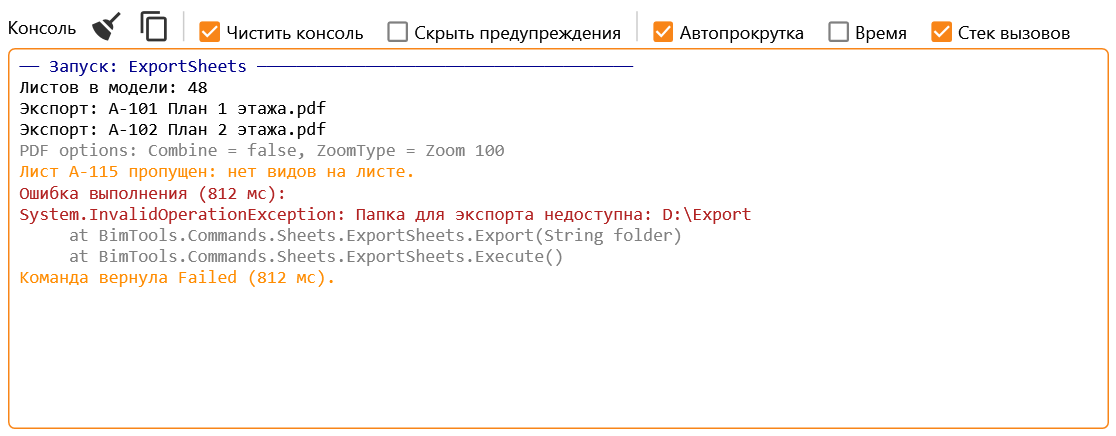
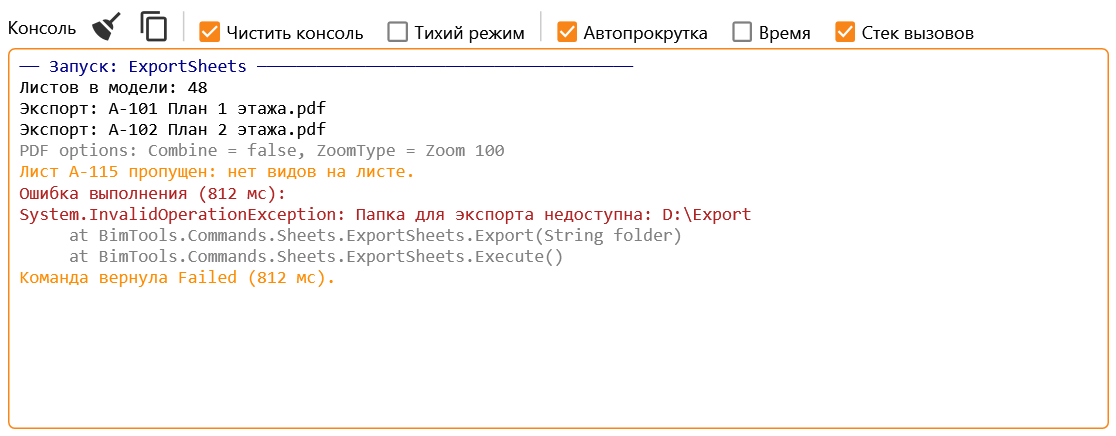
Run under debugger with Ctrl+F5

Changed region(s): [[0.3656, 0.0298, 0.9749, 0.1193]]

diff --git a/source/UI/ScriptEditor/ScriptEditorWindow.xaml b/source/UI/ScriptEditor/ScriptEditorWindow.xaml
@@ -18,6 +18,7 @@
     <Window.InputBindings>
         <KeyBinding Key="F5" Command="{Binding RunCommand}"/>
         <KeyBinding Key="Enter" Modifiers="Control" Command="{Binding RunCommand}"/>
+        <KeyBinding Key="F5" Modifiers="Control" Command="{Binding RunWithDebuggerCommand}"/>
         <KeyBinding Key="N" Modifiers="Control" Command="{Binding NewTabCommand}"/>
         <KeyBinding Key="O" Modifiers="Control" Command="{Binding OpenFileCommand}"/>
         <KeyBinding Key="S" Modifiers="Control" Command="{Binding SaveFileCommand}"/>
@@ -39,7 +40,7 @@
 
             <Button Width="25" Height="25" Margin="8 0 0 0" Padding="0" Command="{Binding RunWithDebuggerCommand}"
                     Style="{StaticResource MaterialDesignFlatButton}"
-                    ToolTip="Запустить под отладчиком: подключить Visual Studio и остановиться на первой строке скрипта">
+                    ToolTip="Запустить под отладчиком (Ctrl+F5): подключить открытую Visual Studio и остановиться на первой строке скрипта. Без открытой Visual Studio скрипт не запускается">
                 <materialDesign:PackIcon Kind="BugPlayOutline" Width="25" Height="25" Foreground="{StaticResource IconBrush}"/>
             </Button>
 

diff --git a/source/UI/DllRunner/AssemblyRunnerWindow.xaml b/source/UI/DllRunner/AssemblyRunnerWindow.xaml
@@ -129,6 +129,7 @@
 
     <Window.InputBindings>
         <KeyBinding Key="F5" Command="{Binding RunHotkeyCommand}"/>
+        <KeyBinding Key="F5" Modifiers="Control" Command="{Binding DebugHotkeyCommand}"/>
         <KeyBinding Key="O" Modifiers="Control" Command="{Binding AddHotkeyCommand}"/>
         <KeyBinding Key="R" Modifiers="Control" Command="{Binding ReloadHotkeyCommand}"/>
     </Window.InputBindings>
@@ -146,7 +147,7 @@
 
             <Button Width="25" Height="25" Margin="8 0 0 0" Padding="0" Command="{Binding RunWithDebuggerCommand}"
                     Style="{StaticResource MaterialDesignFlatButton}"
-                    ToolTip="Выполнить под отладчиком: подключить Visual Studio, точки останова в проекте сработают">
+                    ToolTip="Выполнить под отладчиком (Ctrl+F5): подключить открытую Visual Studio с решением надстройки, точки останова в проекте сработают. Без открытой Visual Studio команда не запускается">
                 <materialDesign:PackIcon Kind="BugPlayOutline" Width="25" Height="25" Foreground="{StaticResource IconBrush}"/>
             </Button>
 

diff --git a/source/UI/Console/ConsoleView.xaml b/source/UI/Console/ConsoleView.xaml
@@ -27,8 +27,8 @@
             <!-- What a run from DevKit does with the console: one setting for Script Editor and Add-in Explorer. -->
             <CheckBox Content="Чистить консоль" VerticalAlignment="Bottom" Padding="2 0" IsChecked="{Binding IsClearOnRun}"
                       ToolTip="Очищать консоль перед каждым запуском из Script Editor и Add-in Explorer"/>
-            <CheckBox Content="Скрыть предупреждения" VerticalAlignment="Bottom" Margin="12 0 0 0" Padding="2 0" IsChecked="{Binding IsHideWarnings}"
-                      ToolTip="Предупреждения Revit при запуске только пишутся в консоль, без окна Revit. Ошибки Revit показывает как обычно"/>
+            <CheckBox Content="Тихий режим" VerticalAlignment="Bottom" Margin="12 0 0 0" Padding="2 0" IsChecked="{Binding IsHideWarnings}"
+                      ToolTip="Тихий режим: предупреждения Revit при запуске из DevKit пишутся только в консоль, без окна Revit. Ошибки Revit показывает как обычно"/>
 
             <Border Style="{DynamicResource ToolbarSeparator}"/>
 

diff --git a/source/Core/FailureLog.cs b/source/Core/FailureLog.cs
@@ -9,7 +9,7 @@ using System.Text;
 namespace RevitDevKit.Core
 {
     // While a script or command runs from DevKit, the warnings and errors Revit raises on committing a transaction
-    // go to the console, with the elements they name. Revit still shows them as usual, unless "hide warnings" is
+    // go to the console, with the elements they name. Revit still shows them as usual, unless quiet mode is
     // on: warnings are then deleted once written, and no warning dialog appears. Errors are left to Revit.
     public static class FailureLog
     {
@@ -85,7 +85,7 @@ namespace RevitDevKit.Core
                 block.Append("  ").AppendLine(line.Trim());
 
             if (!warning) block.AppendLine("  Если ошибку не решить, Revit отменит транзакцию.");
-            else if (hidden) block.AppendLine("  Скрыто: окно Revit не показано.");
+            else if (hidden) block.AppendLine("  Тихий режим: окно Revit не показано.");
 
             if (count == 1)
             {

diff --git a/source/UI/DllRunner/AssemblyRunnerVM.cs b/source/UI/DllRunner/AssemblyRunnerVM.cs
@@ -82,6 +82,10 @@ namespace RevitDevKit.UI.DllRunner
             : SelectedTabIndex == AssembliesTab ? assemblies
             : commands;
 
+        // Ctrl+F5: only commands run under a debugger.
+        [RelayCommand]
+        private void DebugHotkey() => Execute(ForTab(RunWithDebuggerCommand, null, null, null, null));
+
         [RelayCommand]
         private void RunHotkey() => Execute(ForTab(RunCommand, Apps.ApplyCommand, Startup.RefreshCommand, Dependencies.RefreshCommand, LoadedAssemblies.RefreshCommand));
 

diff --git a/README.md b/README.md
@@ -33,7 +33,7 @@ An assembly that Revit does not load can be referenced with `#r`:
 
 The **Примеры** (Samples) menu has a few ready-made scripts. The **Автотранзакция** (auto transaction) checkbox wraps the run in a transaction, for scripts that change the model without opening one themselves. If a script does not compile, the errors go to the console and the caret moves to the first of them.
 
-Warnings and errors Revit raises when a transaction of the script is committed go to the console, in orange and red, with the transaction's name and the Ids of the elements. The same failure raised several times is one block, its elements numbered by occurrence. Revit still shows them as usual; with **Скрыть предупреждения** (hide warnings) ticked in the console's header, warnings are only written to the console and no warning dialog appears, while errors are still shown by Revit. The same works for DLL commands and for Repeat Last.
+Warnings and errors Revit raises when a transaction of the script is committed go to the console, in orange and red, with the transaction's name and the Ids of the elements. The same failure raised several times is one block, its elements numbered by occurrence. Revit still shows them as usual; with **Тихий режим** (quiet mode) ticked in the console's header, warnings are only written to the console and no warning dialog appears, while errors are still shown by Revit. The same works for DLL commands and for Repeat Last.
 
 Scripts are saved to `%AppData%\RevitDevKit\Scripts` unless you pick another folder. A right click on a tab closes it, saves it under another name (**Сохранить как…**, also a toolbar button and Ctrl+Shift+S), and for a tab saved to a file shows the file in Explorer. Repeat Last on the ribbon repeats a script as it was compiled: edits take effect after F5 in the editor.
 
@@ -48,6 +48,7 @@ Indentation is coloured by level, as the Indent Rainbow extension for Visual Stu
 | Keys | |
 |---|---|
 | F5, Ctrl+Enter | run |
+| Ctrl+F5 | run under the debugger |
 | Ctrl+N, Ctrl+O, Ctrl+S, Ctrl+Shift+S, Ctrl+W | new tab, open, save, save as, close |
 | Ctrl+Space | suggestions; the list also opens by itself after a dot and on the first letter of a name |
 | Ctrl+Shift+Space | method overloads with parameter descriptions; the window also opens by itself after `(` and `,` |
@@ -87,7 +88,7 @@ In the output of `Compare`, `-нет-` (none) means the element has no such para
 
 <img src="assets/dll-runner-commands.png" width="580" alt="Add-in Explorer, the Commands tab" />
 
-Add a built DLL, and its `IExternalCommand` classes appear in the list, grouped by namespace. A double click or F5 runs a command. The DLL file is not locked, so the project can be rebuilt without closing Revit. The command is taken from the DLL on disk every time, so after a build just run it again. The list needs refreshing only when new commands appear: Ctrl+R, or a right click on the DLL, which also removes it from the list. The bug button runs the command under a debugger: the Visual Studio with the add-in's solution open is attached, and breakpoints set in the project are hit.
+Add a built DLL, and its `IExternalCommand` classes appear in the list, grouped by namespace. A double click or F5 runs a command. The DLL file is not locked, so the project can be rebuilt without closing Revit. The command is taken from the DLL on disk every time, so after a build just run it again. The list needs refreshing only when new commands appear: Ctrl+R, or a right click on the DLL, which also removes it from the list. The bug button or Ctrl+F5 runs the command under a debugger: the Visual Studio with the add-in's solution open is attached, and breakpoints set in the project are hit.
 
 The window closes when a command runs. To run the same command again after changes, there is no need to open Add-in Explorer: build the project and press Repeat Last on the ribbon, and the command runs from the fresh DLL. Repeat Last can be given a keyboard shortcut in Revit. **Repeat Last: Debug** next to it repeats the command under the open Visual Studio, as the bug button does, so breakpoints set in the project are hit; it has its own shortcut. A script is debugged in Script Editor instead.
 
@@ -134,7 +135,7 @@ The copy loaded in this session is marked. A right click on a DLL or an add-in s
 
 ![Console](assets/console.png)
 
-Everything that scripts and DLL commands write goes here: `Console.WriteLine`, `Debug.WriteLine`, `Trace` and exceptions with their call stacks. The console opens as a separate Revit pane and is also shown at the bottom of the script editor. The Console button on the ribbon shows the pane, or hides it when it is open. The output can be cleared (Ctrl+L) and copied. Two checkboxes in its header set how runs from Script Editor and Add-in Explorer alike treat it: **Чистить консоль** (clear console) clears it before each run, and **Скрыть предупреждения** (hide warnings) keeps Revit's warning dialogs away, writing the warnings here only. The others are **Автопрокрутка** (auto scroll), **Время** (timestamps) and **Стек вызовов** (call stacks), the last one showing call stacks and other debug lines. All of them are one setting for the console in the editor and the console pane: switched in one, they switch in the other.
+Everything that scripts and DLL commands write goes here: `Console.WriteLine`, `Debug.WriteLine`, `Trace` and exceptions with their call stacks. The console opens as a separate Revit pane and is also shown at the bottom of the script editor. The Console button on the ribbon shows the pane, or hides it when it is open. The output can be cleared (Ctrl+L) and copied. Two checkboxes in its header set how runs from Script Editor and Add-in Explorer alike treat it: **Чистить консоль** (clear console) clears it before each run, and **Тихий режим** (quiet mode) keeps Revit's warning dialogs away, writing the warnings here only. The others are **Автопрокрутка** (auto scroll), **Время** (timestamps) and **Стек вызовов** (call stacks), the last one showing call stacks and other debug lines. All of them are one setting for the console in the editor and the console pane: switched in one, they switch in the other.
 
 ## License
 
